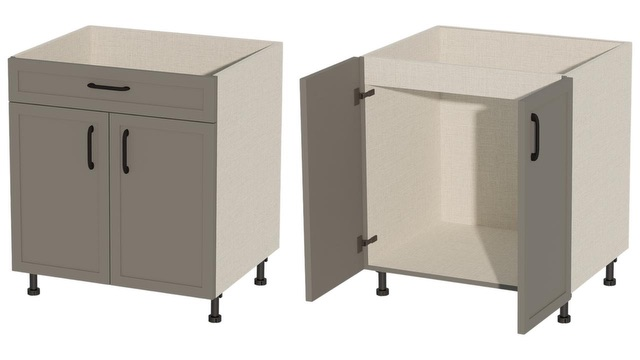
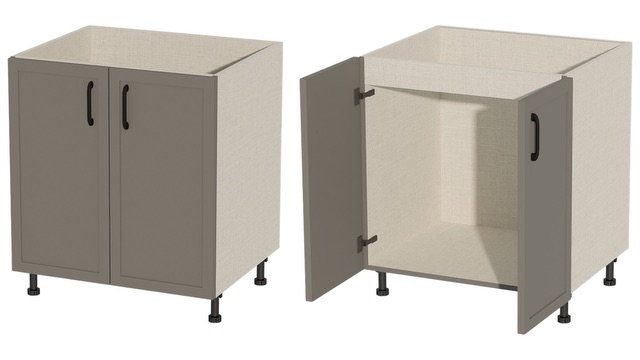
custom parts new prices

Changed region(s): [[0.0312, 0.2139, 0.2812, 0.4889]]

diff --git a/client/src/helpers/calculatePrice.ts b/client/src/helpers/calculatePrice.ts
@@ -387,9 +387,10 @@ function getPvcPrice(doorWidth: number, doorHeight: number, product: ProductType
     } = materialData;
     if (door_type === 'No Doors' || door_finish_material === 'Milino' || product_type === 'standard' || getIsLeatherOrRTAorSystemCloset(room_category) || door_type === 'Wood ribbed doors') return 0;
     const per = (horizontal_line * doorWidth + doorHeight * 2) / 12;
-    const pvcPrice = per * 2.5;
-    const is_acrylic = door_finish_material === 'Ultrapan Acrylic';
-    return +(is_acrylic ? pvcPrice * 1.1 : pvcPrice).toFixed(1)
+    let coef = 2.5;
+    if (door_type === 'Custom Painted') coef = 2.63;
+    if (door_finish_material === 'Ultrapan Acrylic') coef = 2.75;
+    return +(per * coef).toFixed(2);
 }
 
 function getDoorPrice(square: number, materialData: materialDataType): number {
@@ -458,7 +459,7 @@ function getPanelPrice(square: number, material: MaybeUndefined<string>): number
         case "Zenit":
             return square * k * 24 * 1.03;
         case "Painted":
-            return square * k * 31.2 * 1.3;
+            return square * k * 40.56 * 1.05;
         case "Wood Veneer":
             return square * k * 42;
         default:
@@ -479,7 +480,7 @@ function getShakerPanelPrice(square: number, door_finish_material: MaybeUndefine
         case "Zenit":
             return square * 60 * 1.03;
         case 'Painted':
-            return square * 78;
+            return square * 81.9;
         case "Wood Veneer":
             return square * 96;
         default:
@@ -723,8 +724,8 @@ const getMaterialCoef = (materials: RoomMaterialsFormType): number => {
                     if (door_finish_material === 'Zenit') return 1.03;
                     break;
                 case 'Custom Painted':
-                    if (door_finish_material === 'Slab') return 1;
-                    return 1.05;
+                    if (door_finish_material === 'Slab') return 1.05;
+                    return 1.10;
                 case 'Shaker':
                     if (door_finish_material === 'Zenit') return 1.03;
                     if (door_finish_material === 'Ultrapan Acrylic') return 1.1;
@@ -857,8 +858,8 @@ const getDoorPriceMultiplier = (materials: RoomMaterialsFormType, is_standard_ro
                     if (door_finish_material === 'Syncron') return 30;
                     return 36;
                 case "Custom Painted":
-                    if (door_finish_material === 'Slab') return 30;
-                    return 43.2;
+                    if (door_finish_material === 'Slab') return 31.5;
+                    return 45.36;
                 case "Shaker":
                     switch (door_finish_material as FinishTypes) {
                         case "Milino":
@@ -960,7 +961,6 @@ export const getProductDataToCalculatePrice = (product: ProductType | productCha
     const filteredOptions = options.filter(option => (option !== 'PTO for drawers' || drawerBrand !== 'Milino'));
     const shelfsQty = getShelfsQty(attrArr);
     const rodsQty = getRodsQty(attrArr)
-    console.log(rodsQty)
     return {
         doorValues,
         drawersQty: drawersQty + rolloutsQty,
@@ -1038,7 +1038,7 @@ export const getCustomPartPrice = (product: CustomPartType, materials: RoomMater
                     price = ((width * height * depth / 20) + 120) * 1.03;
                     break;
                 case "Painted":
-                    price = ((width * height * depth / 20) + 120) * 1.3 * 1.05;
+                    price = ((width * height * depth / 20) * 1.3 + 156) * 1.05 * 1.05;
                     break;
                 case "Wood Veneer":
                     price = ((width * height * depth / 10) + 120);
@@ -1071,7 +1071,7 @@ export const getCustomPartPrice = (product: CustomPartType, materials: RoomMater
                     price = opetCabinetCoef * 24 * 1.03;
                     break;
                 case "Painted":
-                    price = opetCabinetCoef * 31.2 * 1.05;
+                    price = opetCabinetCoef * 32.76 * 1.05;
                     break;
                 case "Wood Veneer":
                     price = opetCabinetCoef * 34;
@@ -1115,7 +1115,7 @@ export const getCustomPartPrice = (product: CustomPartType, materials: RoomMater
                     price = area * 60 * 1.03;
                     break;
                 case "Painted":
-                    price = area * 78;
+                    price = area * 81.9;
                     break;
                 case "Wood Veneer":
                     price = area * 90;
@@ -1148,7 +1148,7 @@ export const getCustomPartPrice = (product: CustomPartType, materials: RoomMater
                     price = lSHapeArea * 58 * 1.03;
                     break
                 case "Painted":
-                    price = lSHapeArea * 74.4;
+                    price = lSHapeArea * 79.17;
                     break
                 case "Wood Veneer":
                     price = lSHapeArea * 100;
@@ -1176,7 +1176,7 @@ export const getCustomPartPrice = (product: CustomPartType, materials: RoomMater
                     price = columnArea * 18.4 * 1.03;
                     break
                 case "Painted":
-                    price = columnArea * 23.92;
+                    price = columnArea * 25.12;
                     break
                 case "Wood Veneer":
                     price = columnArea * 26;
@@ -1219,7 +1219,7 @@ export const getCustomPartPrice = (product: CustomPartType, materials: RoomMater
                     break;
                 }
                 case "Painted": {
-                    price = shakerDoorPrice * 1.3;
+                    price = shakerDoorPrice * 1.365;
                     break;
                 }
                 default:
@@ -1369,7 +1369,7 @@ export const calculateCartPriceAfterMaterialsChange = (cart: CartItemFrontType[]
 export const calculateProduct = (cabinetItem: CartAPI, materialData: materialDataType, tablePriceData: pricePart[], sizeLimit: sizeLimitsType, product: ProductType): number => {
     const {widthDivider, category, attributes} = product
     const {width, height, depth, options, hinge} = cabinetItem;
-    const doors = checkDoors(hinge)
+    const doors = checkDoors(hinge);
     const image_active_number = getType(width, height, widthDivider, doors, category, attributes);
     const tablePrice = getTablePrice(width, height, depth, tablePriceData);
     const isSizeValid = checkProductSize(width, height, depth, sizeLimit, tablePrice);
@@ -1438,7 +1438,6 @@ const getAttributesProductPrices = (cart: CartAPI, product: ProductType, materia
     const glassDoorProfile = glass?.door ? glass.door[0] : undefined;
     const shelfArea = (width * depth / 144) * shelfsQty;
     const finishSidesMaterial = door_type === 'Custom Painted' ? 'Painted' : door_finish_material;
-
     return {
         ptoDoors: options.includes('PTO for doors') ? addPTODoorsPrice(hinge, id) : 0,
         ptoDrawers: options.includes('PTO for drawers') ? addPTODrawerPrice(image_active_number, drawersQty) : 0,
@@ -1563,7 +1562,7 @@ export const getFloatingShelfCustomPartPrice = (material: MaybeUndefined<string>
         case "Ultrapan Acrylic":
             return area * 102 * 1.1;
         case "Painted":
-            return area * 132.6;
+            return area * 139.2;
         case "Wood Veneer":
             return area * 153;
     }

diff --git a/client/src/Components/CustomPart/CustomPartLeft.tsx b/client/src/Components/CustomPart/CustomPartLeft.tsx
@@ -7,7 +7,7 @@ import {useFormikContext} from "formik";
 import {CustomPartFormType} from "./CustomPart";
 import {getCustomPartImagePath} from "../../helpers/helpers";
 
-const CustomPartLeft: FC<{ product: CustomPartType, materials: RoomMaterialsFormType }> = ({product, materials}) => {
+const CustomPartLeft: FC<{ product: CustomPartType}> = ({product}) => {
     const {name} = product
     const {values} = useFormikContext<CustomPartFormType>();
     const img = getCustomPartImagePath(product, values);
@@ -17,7 +17,6 @@ const CustomPartLeft: FC<{ product: CustomPartType, materials: RoomMaterialsForm
             <div className={[s.img].join(' ')}>
                 <img src={img} alt={name}/>
             </div>
-            <Materials materials={materials}/>
         </div>
     );
 };

diff --git a/client/src/Components/CustomPart/CustomPart.tsx b/client/src/Components/CustomPart/CustomPart.tsx
@@ -175,7 +175,7 @@ const CustomPart: FC<CustomPartFCType> = ({
             }}
         >
             <div className={st.product}>
-                <CustomPartLeft product={custom_part} materials={materials}/>
+                <CustomPartLeft product={custom_part}/>
                 <div className={s.right}>
                     <CustomPartRight customPartProduct={custom_part}
                                      customPartData={customPartData}
